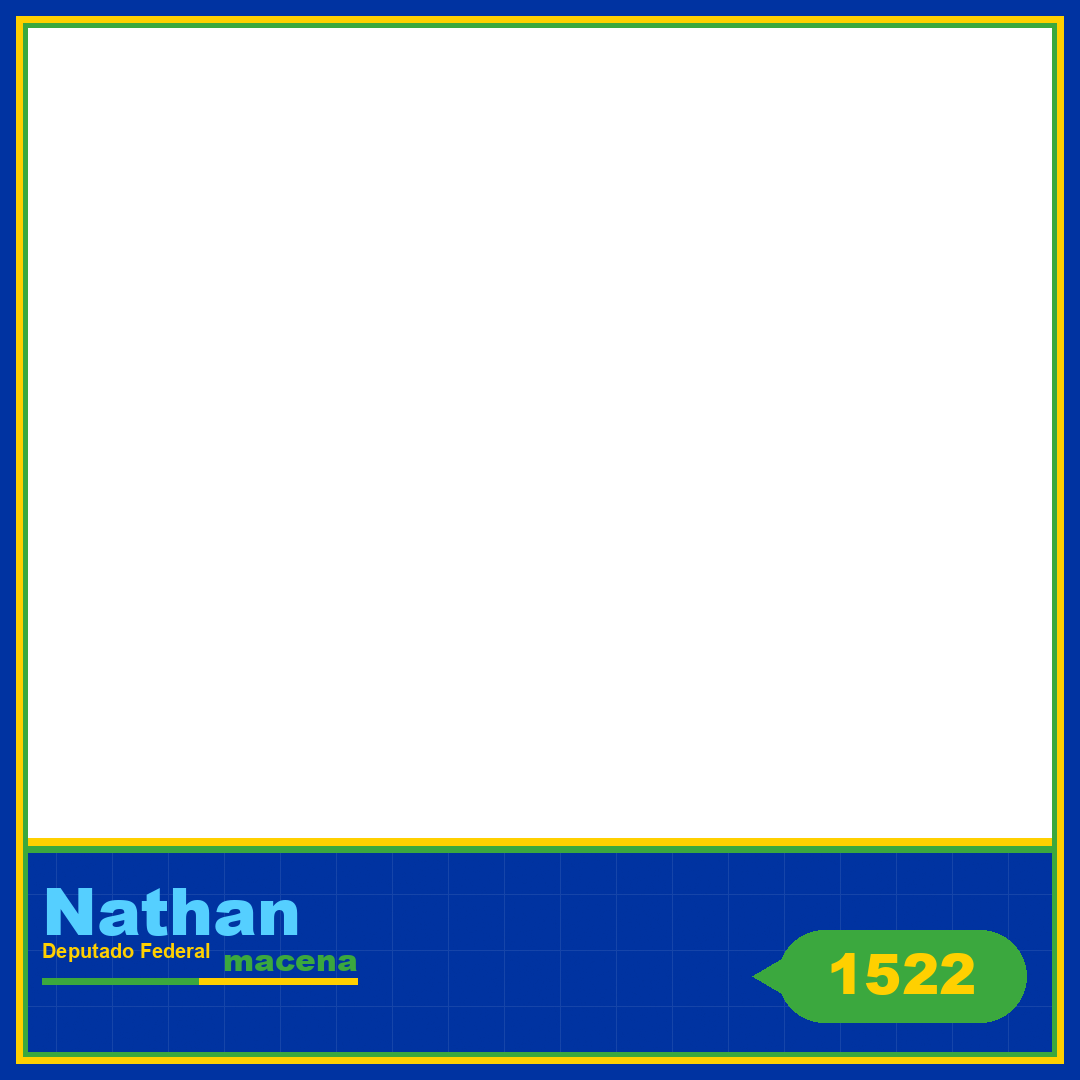
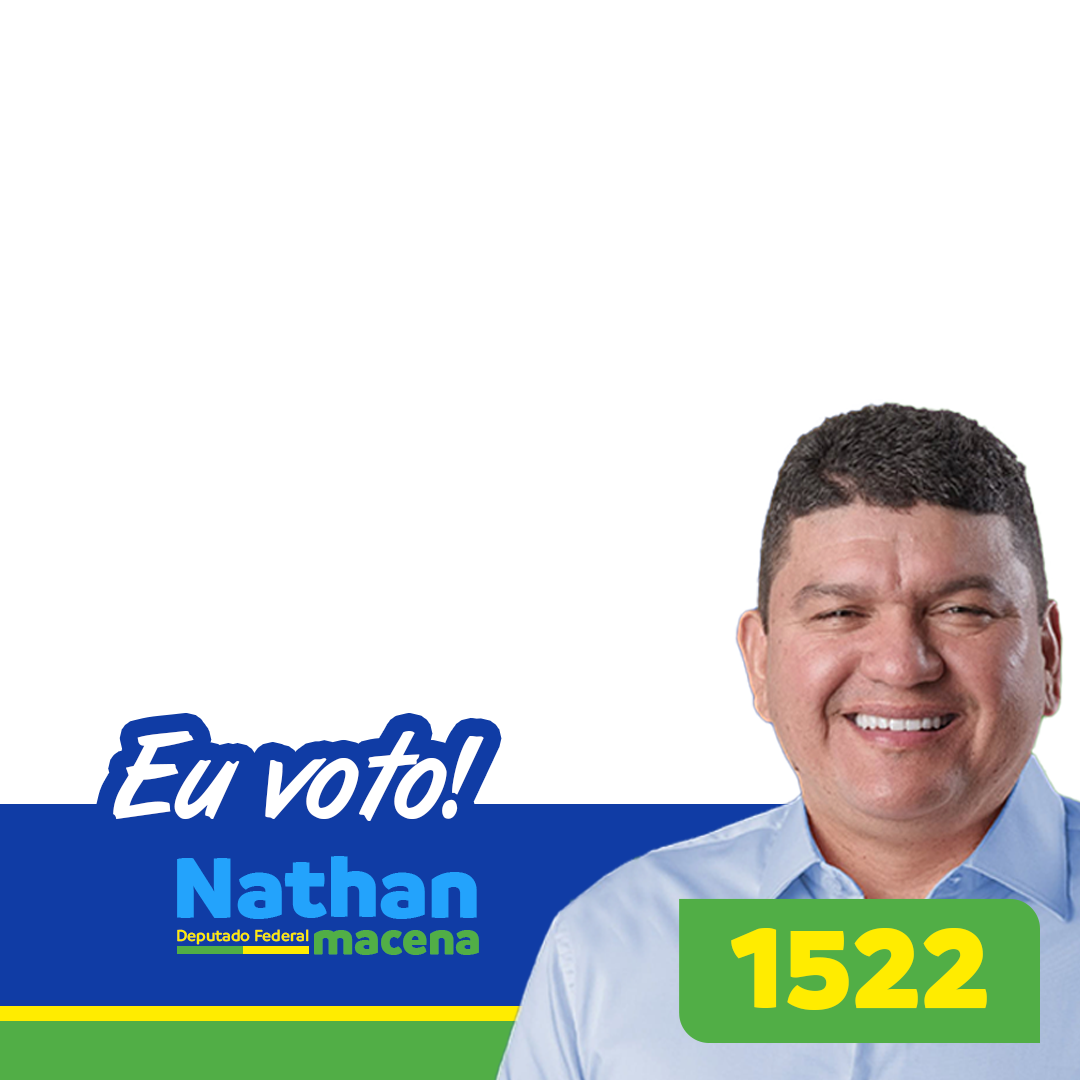
Use official Instagram feed and stories frames.

diff --git a/src/data/molduras.js b/src/data/molduras.js
@@ -3,7 +3,7 @@ export const MOLDURAS = [
     id: "feed-nathan",
     nome: "Feed 1522",
     formato: "feed",
-    url: "/assets/frames/feed-nathan.png",
+    url: "/assets/frames/feed-nathan.png?v=oficial",
     w: 1080,
     h: 1080,
   },
@@ -11,7 +11,7 @@ export const MOLDURAS = [
     id: "story-nathan",
     nome: "Stories 1522",
     formato: "stories",
-    url: "/assets/frames/story-nathan.png",
+    url: "/assets/frames/story-nathan.png?v=oficial",
     w: 1080,
     h: 1920,
   },
